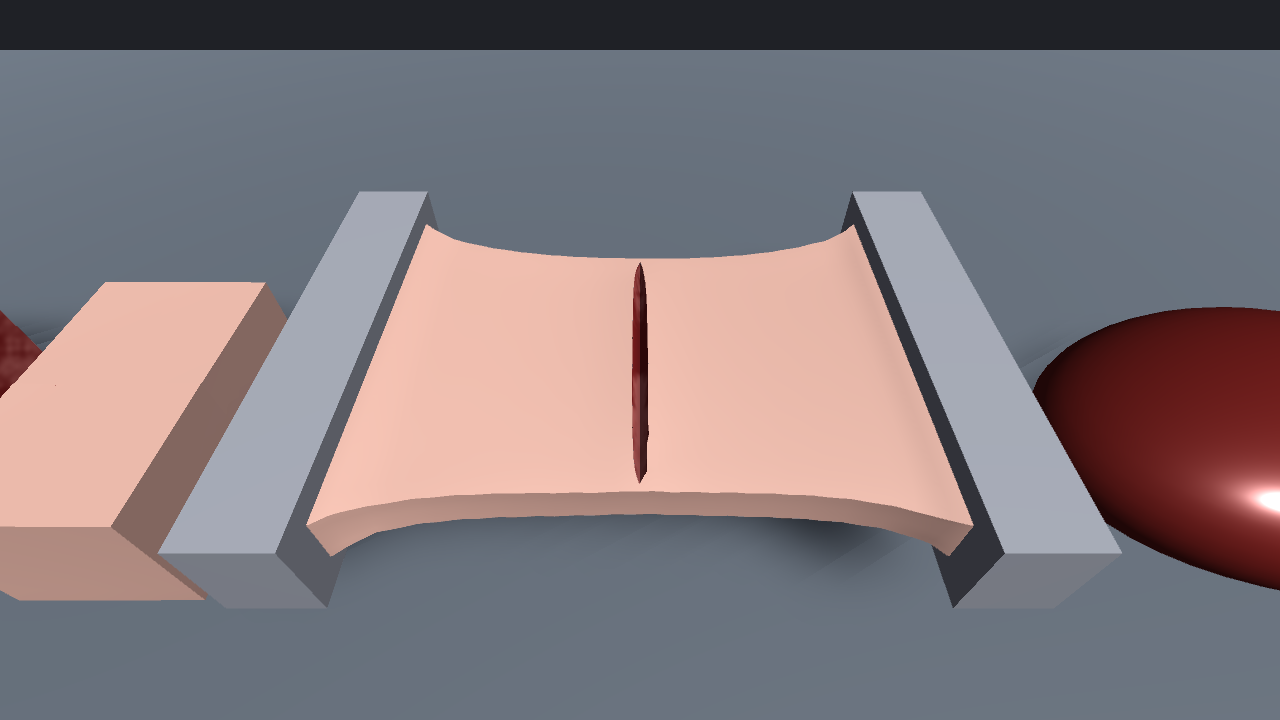
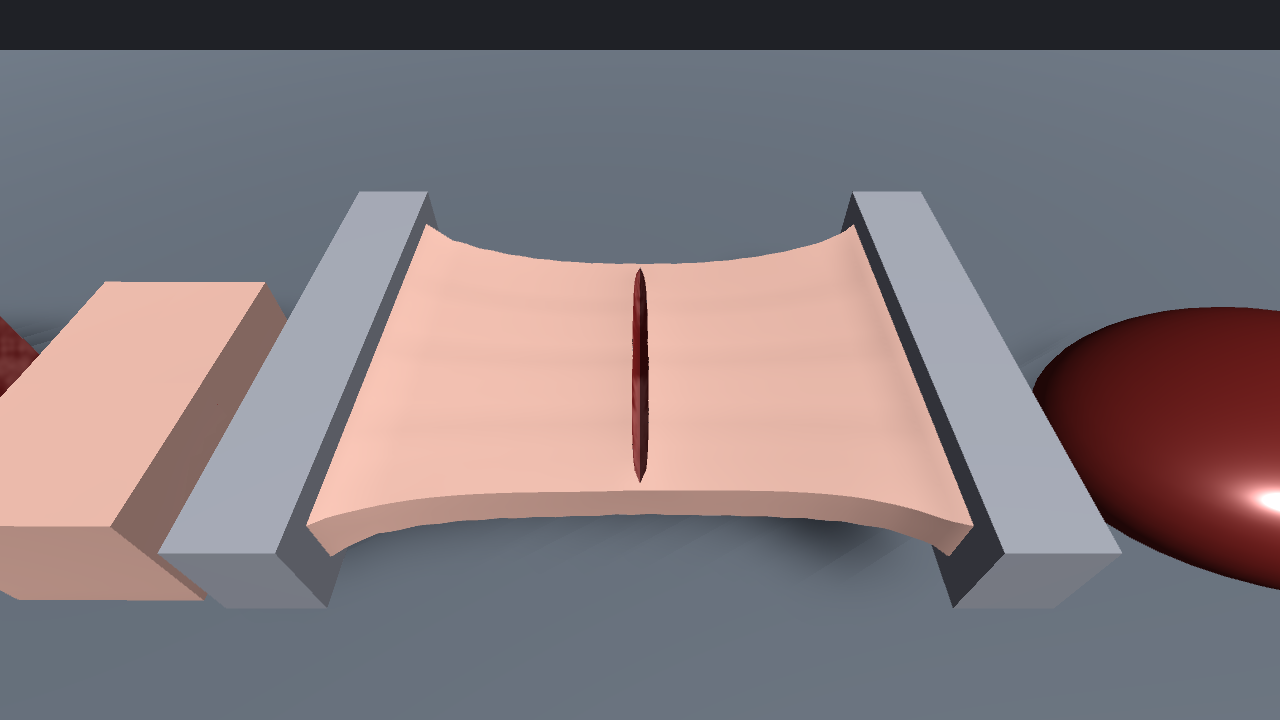
docs: 更新求解器、皮肤层、性能数据与 S6 截图

Changed region(s): [[0.375, 0.3361, 0.625, 0.3667], [0.5312, 0.6722, 0.6875, 0.7028], [0.0, 0.4278, 0.0312, 0.4889]]

diff --git a/docs/DESIGN.md b/docs/DESIGN.md
@@ -15,6 +15,10 @@
   距离只对三角形 1.5 个体素以内的格点精确计算，其余取 ±2h。
 - 保留体素的条件：任一角点在网格内部，或体素内含网格顶点（保证每个顶点都能被嵌入）。
 - 填充率 `Fill`：体素内 8 个子采样点的 SDF 为负的比例，下限 1/8，用于质量与刚度加权。
+- 每个体素另存深度 `Depth`（8 个角点 SDF 均值取负，即体素中心到表面的距离）与外法线 `Normal`
+  （体素中心处的 SDF 梯度），用于皮肤层。
+- 体素按“最长轴最外层”的顺序排列（`VoxelGrid.LongestAxis`）。求解按该轴切片（第 3 节），
+  同一切片的体素、副本与节点在内存中连续。
 - 渲染网格先细分到最长边 ≤ 0.5h（`MeshUtil.Subdivide`）。
 
 ## 3. 单元与求解（`SolverJobs.cs`、`ContactJobs.cs`）
@@ -22,26 +26,51 @@
 - 角点编号 c 的偏移为 `(c&1, (c>>1)&1, (c>>2)&1)`；12 条棱按 x/y/z 轴各 4 条编号。
 - 每个体素副本按 Kuhn 剖分拆为 6 个四面体（共用 0–7 对角线），所有体素剖分相同。
   早期使用的 5 四面体剖分按体素奇偶交替，大变形时切口边缘出现周期为两个体素的锯齿，已替换。
-- 约束：Stable Neo-Hookean 的两个 XPBD 约束
-  - 体积项 `C_H = det(F) − γ`，柔度 `1/(λ V)`，`γ = 1 + μ/λ`
-  - 偏量项 `C_D = ‖F‖_F`，柔度 `1/(μ V)`
-  - 两个约束联立求解 2×2 线性系统。静止状态下两者梯度平行，联立求解使静止状态为不动点。
-- 参数换算：`μ = E/(2(1+ν))`，`λ = λ_Lamé + μ`（去掉对数项后能量在小应变下的线性化结果）。
+- 约束：co-rotational 的两个 XPBD 约束，静止时均为 0
+  - 体积项 `C_H = det(F) − 1`，柔度 `1/(λ V Δt²)`
+  - 偏量项 `C_D = ‖F − R‖_F`，柔度 `1/(2μ V Δt²)`，`R` 为 `F` 的旋转部分
+  - 两个约束联立求解 2×2 线性系统。偏量项的未知量取 `λ_D / C_D`，方程组中不出现开方与除以 `C_D`。
+- `R` 的计算：每个四面体保存一个四元数，每个子步按 Müller 等（2016）的方法迭代一次，
+  四元数按一阶公式更新后归一化，单步旋转量限制在 0.5 rad 以内。投影使用更新后的 `R`。
+  用上一子步的 `R` 投影时，刚度高的四面体在新旧两个旋转之间来回振荡
+  （`StiffMaterialOnFineLatticeStaysAtRest` 失败）。切割时四元数随副本继承，新副本取单位四元数。
+- 选择 co-rotational 的原因：Stable Neo-Hookean 的约束对（`C_D = ‖F‖`、`C_H = det F − γ`）在静止状态下
+  是两个大小相近、方向相反的投影，`μΔt²/(ρh²)` 大于约 1 时发散（刚度高的皮肤层、细的 lattice）。
+  co-rotational 约束在 E = 1 MPa、分辨率 32 时保持静止（`StiffMaterialOnFineLatticeStaysAtRest`）。
+- 参数换算：`μ = E/(2(1+ν))`，`λ = max(λ_Lamé, 10⁻³ μ)`，能量在小应变下线性化为各向同性线弹性。
   `SelfWeightCompressionMatchesYoungsModulus` 测试用自重压缩的解析解校验刚度（容差 30%）。
-- 预应力：静止四面体按 `(1 − preStrain)` 缩小，两端钉住时组织处于拉伸状态。
+- 预应力与皮肤层：静止形状按 `X → S X` 收缩，逆静止矩阵取 `Dm⁻¹ S⁻¹`，体积乘 `det S`。
+  - 体素内部 `S = (1 − preStrain) I`，两端钉住时组织处于拉伸状态。
+  - 深度小于 `skinThickness` 的体素为皮肤层，`S = b n nᵀ + s (I − n nᵀ)`：法向 `b = 1 − preStrain`，
+    切向 `s = 1 − skinPreStrain`，即皮肤只在表面内收缩；刚度乘以 `skinYoungsModulus / youngsModulus`。
+    皮肤层与内部之间在一个体素内线性过渡。
+  - 皮肤张力使切口张开，切口下方的组织保持连续（`SkinTensionOpensSmallIncisionInSolidTissue`）。
+    各向同性的皮肤预应力会把整个物体压扁，因此只取切向。
 - 调度：体素沿最长轴切成单层切片，按切片序号奇偶分 2 色。同色切片相隔两层，不共享格点，可并行；
-  切片内顺序求解。每个子步为 2 个颜色 job 和 1 个节点 job，每 2 个子步另有 1 个接触快照复制 job。
-  编辑器中每个 job 的调度延迟约 0.1 ms，远大于计算量，所以 job 数量直接决定每帧耗时。
+  切片内顺序求解（Gauss-Seidel）。每个子步为 2 个颜色 job 和 1 个节点 job，每 2 个子步另有 1 个接触快照复制 job。
   不使用浮点原子操作，同一机器、同一构建下结果逐位一致（`SameInputsGiveBitIdenticalResults`）。
+- 四面体求解的实现：
+  - 一个切片内的体素按四等分各取一个，组成 4 个一组（`BuildLaneGroups`），4 个体素两两不共享格点，
+    以 SIMD 结构数组（`float4` 每个分量一个通道）同时求解。凑不成组的体素与已切开（多个副本）的体素
+    使用标量路径，两条路径的约束相同。8 个角点全部被钉住的组直接跳过。
+  - 每个体素副本的 8 个角点读入局部变量，6 个四面体依次更新后一次写回。
+  - 单线程测量（Pad，9108 个体素，全部切片放入一个 job）：每个四面体的耗时为标量 float3 实现约 100 ns，
+    SIMD 实现约 40 ns。标量实现的大部分指令是 float3 点积与叉积所需的 shuffle 与水平加法。
+    节点 job 链（每步 17 个 job）约 0.6–0.9 ms，单个 job 的调度延迟约 40 µs，不是主要耗时。
 - 节点 job：块间接触修正 + 碰撞投影 + 摩擦（按穿透深度限制切向位移）+ 速度更新 + 下一子步预测。
   运动学节点（钉住、抓取）按帧插值目标位置，求解时有效逆质量为 0。
 - `ApxSoftBody` 在 FixedUpdate 中只调度本帧的 job，在 LateUpdate（或下一次访问数据时）等待完成，
   多个物体的仿真并行执行。每个渲染帧最多推进 `maxStepsPerFrame`（默认 1）步：帧耗时超过固定步长时，
   多出的 FixedUpdate 被跳过（表现为慢动作），不会累积补帧。
+- 休眠（`allowSleep`，默认开启）：实节点最大速度连续 30 步低于 2 mm/s，且没有碰撞体出现、离开或移动，
+  钉住区域未移动，未处于抓取状态时，物体停止步进，渲染网格也不再更新。切割、抓取结束、
+  检视面板修改参数（`OnValidate`）或调用 `WakeUp()` 时恢复步进。
 
 ### 3.1 块间接触
 
 - 每帧开始时用空间哈希（单元 1.8h）收集相距 1.8h 以内的实节点对，每节点最多 16 个。
+  只有表面节点参与：周围 8 个体素都是未切开、填充率为 1 的完整体素的节点（内部节点）不进入哈希，
+  也不查询。拓扑重建时重新标记（`ContactNodesJob`）。
 - 不同块的节点对：最小距离 `d0 = min(静止距离, 0.8h)`。切口两侧在刚切开时距离接近 0，
   不会被推开；切下的块压向其他组织时不能穿入。
 - 同一块的节点对：静止距离大于 1.8h 时（非 lattice 近邻）`d0 = 0.8h`，用于折叠后的自接触；
@@ -85,27 +114,38 @@
   用“从三角形重心到角点的线段不穿过切面”来选副本。
 - 切面：对每个有虚拟角点的副本，取“实角点—虚角点”之间的断棱交点组成多边形（按虚角点连通组分开），
   绕法线排序后扇形三角化，再按原始表面 SDF 做 Sutherland–Hodgman 裁剪。
+- 裂缝面：有断棱但未分成多个副本的体素（刀刃停止处、半切切口的底部与两端）中，
+  按法线方向（夹角余弦的绝对值 ≥ 0.9）把断棱分组，每组的交点生成一个双面的面片，使半切切口的底部与两端闭合。
 - 实节点数少于 8 的碎块不渲染（两刀相交处会切出只含一两个节点的副本）。
 - 重建是增量的：三角形分类在 Burst 中完成，未触及切开体素的三角形直接使用原始顶点索引；
   触及切开体素的三角形的拆分结果按“体素 + 体素内副本序号”缓存，只有断棱变化的体素及其 26 邻域内的
   三角形重新拆分。仿真数据在重建开始时整体复制为托管数组，避免逐元素访问 NativeArray。
 - 法线：节点上累加相邻副本的体素中心形变雅可比，顶点处三线性插值后取余子式变换静止法线，
   跨体素连续，不需要每帧重算三角形法线。
-- 子网格 0 为皮肤，子网格 1 为切面；UV1 为静止坐标，供 `AdaptorPhysX/Tissue Interior` 着色器使用。
+- 子网格 0 为皮肤，子网格 1 为切面；UV1 为静止坐标，切面的 UV0.x 为该点在原始表面以下的深度。
+  `AdaptorPhysX/Tissue Interior` 着色器用静止坐标生成 3D 噪声，按深度分层着色：
+  `_SkinDepth` 以内为真皮，其下 `_FatDepth` 为脂肪，再往下为肌肉。两个深度均为 0 时整个切面为肌肉。
+- 物体休眠且 Transform 未变化时，`SurfaceMesh.Update` 不重新蒙皮（按 `SoftBodySimulation.StepCount` 判断）。
 
 ## 6. 性能（Intel i9-13900HX，32 线程，Unity 2022.3 编辑器 Play 模式，托管代码 Debug 优化，Burst）
 
-演示场景三个物体（2527–3700 个体素，16 子步）：
+演示场景四个物体（2527–9108 个体素，16 子步）。“基准”为同一体素网格、无重力、无碰撞体的静止物体，
+每组 4 步，取 5 组平均值中的最小值；“场景”为实际场景中的步进加渲染。
 
-| 项目 | 耗时 |
-|---|---|
-| 每帧仿真，单个物体 | 8–11 ms |
-| 每帧仿真，三个物体并行 | 约 12 ms |
-| 每帧渲染（蒙皮 + 上传） | 约 3 ms |
-| 每次切割：断棱 + 拓扑重建 | 2–3 ms |
-| 每次切割：渲染拓扑重建 | 约 4–9 ms（首次切割含 JIT，约 40 ms） |
+| 项目 | 2026-10-26 优化前 | 当前 |
+|---|---|---|
+| 基准，Tissue Pad（9108 个体素） | 13.1 ms | 5.6 ms |
+| 基准，Skin Flap（3700 个体素） | 6.9 ms | 3.4 ms |
+| 基准，Tissue Block（3402 个体素） | 6.1 ms | 3.9 ms |
+| 基准，Liver Lobe（2527 个体素） | 5.5 ms | 3.5 ms |
+| 基准，四个物体并行 | 未测量 | 7.8 ms |
+| 场景，四个物体同时活动 | 约 32 ms（仿真 28.5 ms + 渲染 4 ms） | 约 11 ms |
+| 场景，仅一个物体活动，其余休眠 | 无休眠 | 4.1–8.2 ms |
+| 场景，全部休眠 | 无休眠 | 0 ms |
+| 每次切割：断棱 + 拓扑重建 | 2–6 ms | 2–6 ms |
+| 每次切割：渲染拓扑重建 | 约 4–9 ms（首次切割含 JIT，约 40 ms） | 未重新测量 |
 
-单个物体的耗时约为 0.75 ms + 0.47 ms × 子步数。
+2026-10-26 的优化内容：SIMD 四面体求解、偏量约束去掉开方、表面节点接触、休眠、静止 Box 碰撞体不插值旋转。
 
 ## 7. 已知限制
 
@@ -115,13 +155,13 @@
 | 碰撞作用在 lattice 节点 | 表面与碰撞体之间留有不超过约 0.5h 的间隙，可用负的 `collisionMargin` 补偿 |
 | 皮肤切口位置为每个体素的拟合平面 | 刀路在一个体素内弯曲时切口边缘为折线 |
 | 仿真拓扑全量重建 | 体素数达到数万时切割帧会有明显延迟 |
-| CPU job 调度延迟 | 每帧耗时主要由子步数决定；Compute Shader 后端（M4）用于降低 |
+| CPU 求解耗时与体素数、子步数成正比 | 约 1 万个体素、16 子步时单个物体每帧约 6–8 ms；Compute Shader 后端（M4）用于降低 |
 | 网格需闭合 | 非闭合网格的内外判定结果不可靠 |
 
 ## 8. 工具
 
 - `AdaptorPhysX/Build Surgery Demo Scene`：生成演示场景与材质。
-- `AdaptorPhysX/Capture Standard Scenarios`：在编辑模式下按脚本执行 S1–S5，并输出 PNG 与日志
+- `AdaptorPhysX/Capture Standard Scenarios`：在编辑模式下按脚本执行 S1–S6，并输出 PNG 与日志
   （每个阶段的块大小、副本数、耗时）。菜单执行前提示保存已修改的场景，结束后从磁盘重新加载原场景；
   Play 模式下不可用。batchmode 用法：
   `Unity -batchmode -projectPath . -executeMethod AdaptorPhysX.Samples.Editor.SurgeryDemoCapture.CaptureBatch -apxCaptureDir <目录>`

diff --git a/docs/ROADMAP.md b/docs/ROADMAP.md
@@ -23,16 +23,17 @@
 | S3 | 十字切与再次切割 | 交叉切得到四块；已分离的块可以继续切 | 5 块 |
 | S4 | 镊子牵拉切口边缘 | 抓取不跨越切口，牵拉时组织形变连续 | 切口张开，露出切面 |
 | S5 | 肝叶楔形切除 | V 形两刀加两端横切，楔形块可被取出 | 楔形块分离并被提起 |
+| S6 | 实体组织上的小切口 | 带皮肤层的组织块上切一道短而浅的切口：皮肤张力使切口张开，切口下方仍为实体；牵开后露出真皮、脂肪分层 | 1 块，切口张开，底部闭合 |
 
 ## 里程碑
 
 | 里程碑 | 内容 | 状态 |
 |---|---|---|
-| M1 | 体素化、Neo-Hookean XPBD、碰撞与摩擦、钉住、抓取、渲染嵌入 | 已完成，待人工验收 |
+| M1 | 体素化、co-rotational XPBD（替换 Neo-Hookean）、碰撞与摩擦、钉住、抓取、渲染嵌入、休眠 | 已完成，待人工验收 |
 | M2 | 扫掠面断棱、virtual node 副本、切面生成与裁剪、切面着色器、皮肤沿切平面拆分 | 已完成，待人工验收 |
 | M3 | 块间接触（已完成）；不同物体之间的接触；拓扑与渲染拓扑局部重建；刀路在体素内弯曲时的切口精度 | 进行中 |
 | M4 | Compute Shader 求解后端；渲染顶点在 GPU 上直接写入 Mesh 顶点缓冲 | 未开始 |
-| M5 | 组织分层（皮肤/脂肪/肌肉不同材料）；超阈值撕裂；编辑器 blueprint 资产缓存体素化结果 | 未开始 |
+| M5 | 组织分层：皮肤层刚度与切向预应力、切面按深度分层着色（已完成）；脂肪/肌肉不同材料；超阈值撕裂；编辑器 blueprint 资产缓存体素化结果 | 进行中 |
 
 M3 以后的顺序可按人工验收时发现的问题调整。
 
